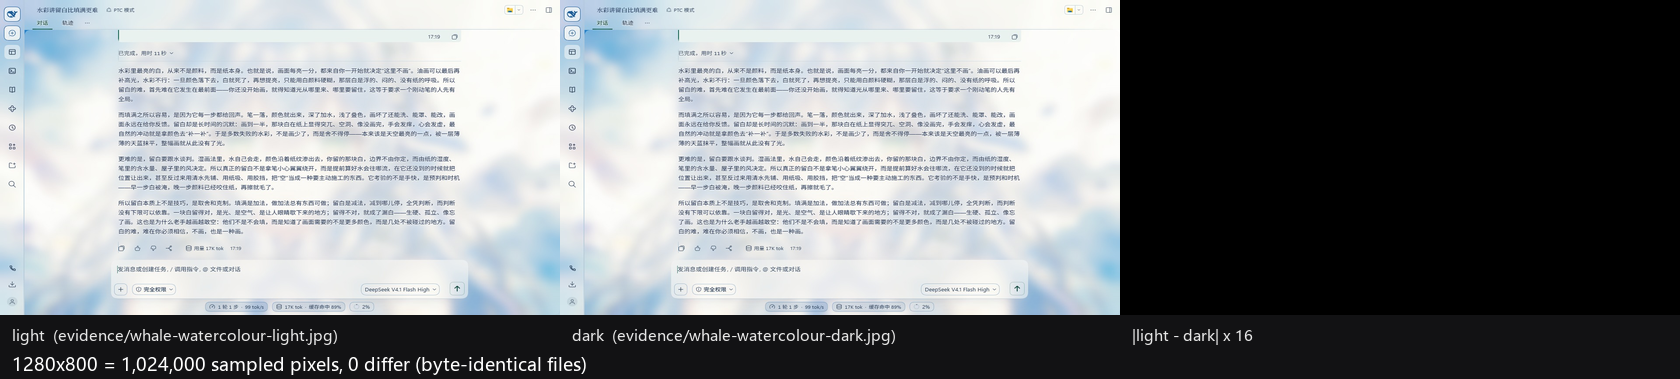
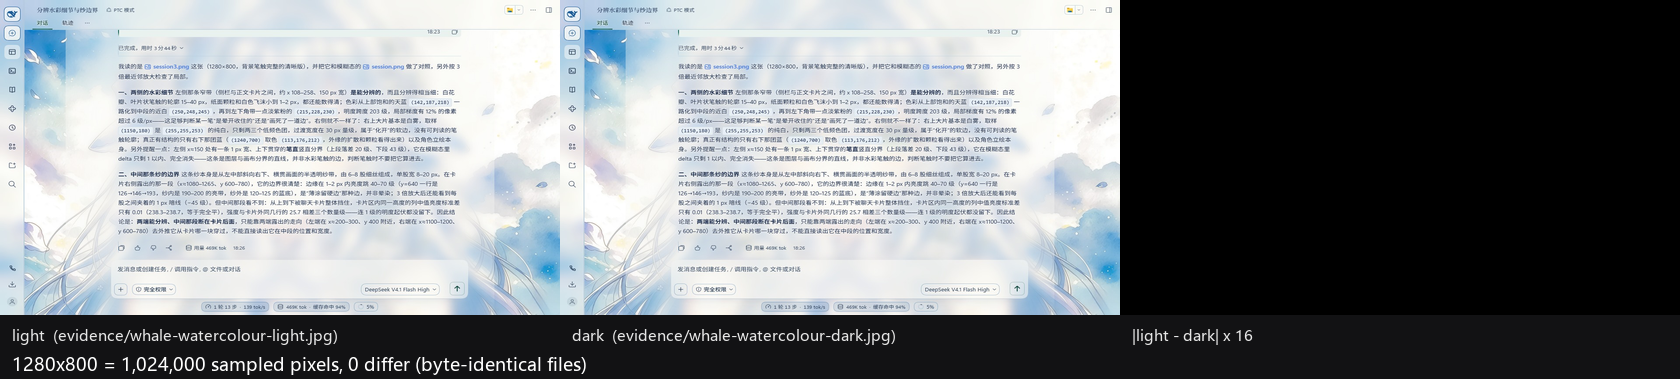
fix(skins): keep whale-watercolour's session sheet inside the 980 px band
The 2026-11-07 intake note read the session capture as blue-white fog in the
two picture columns (left x56-250, right x1070-1280) with no scrim boundary
visible, while the home capture of the same skin and viewport kept the hair,
petals and cloud edges there.

The cause was the skin's own conversation sheet, not the host blur slider:
[data-conversation-content] painted its veil across the full column width and
its ::before carried a full-width backdrop-filter blur(10px). Both are now the
same 980 px centred band as the scrim, with the same 10 % ramp, so the picture
columns keep the illustration's own detail and the sheet edge reads as the
scrim edge.

Measured on the running shell at 1280x800, DPR 1, high-pass per pixel over the
region: picture column left 0-150 px 6.59 -> 12.04 (home frame 10.77), right
1140-1280 px 0.81 -> 5.10 (home frame 4.80).

Evidence re-shot on the same viewport with the pet plugin disabled and the
host background blur at zero; preview/light.jpg, preview/dark.jpg and
evidence/whale-watercolour-home.jpg are byte-identical (F586C5C2...EDF705),
the two session captures are byte-identical to each other, and the parity
panel is regenerated (0 of 1,024,000 pixels differ).

diff --git a/skins/whale-watercolour/patches.css b/skins/whale-watercolour/patches.css
@@ -617,7 +617,12 @@ body [data-conversation-content]:not([data-content-phase='hero']) {
     color-mix(in srgb, var(--bk-veil-sheet) 0%, transparent) 100%);
   background-attachment: fixed;
   background-repeat: no-repeat;
-  background-size: 100% 100%;
+  /* The sheet is the same 980 px band as the scrim: the picture-only columns
+     left and right of the interface keep their own detail, and the sheet's
+     edge reads as the scrim's edge (2026-11-07 intake note: a full-width sheet
+     turned those two columns into blue-white fog and hid the scrim boundary). */
+  background-size: min(100%, 980px) 100%;
+  background-position: center top;
 }
 
 /* 3b · 毛玻璃：挂在一个**空伪元素**上，不挂本体 ──────────────────────────────
@@ -645,11 +650,19 @@ body [data-conversation-content]:not([data-content-phase='hero']) {
 body [data-conversation-content]:not([data-content-phase='hero'])::before {
   content: '';
   position: absolute;
-  inset: 0;
+  top: 0;
+  bottom: 0;
+  left: 50%;
+  width: min(100%, 980px);
+  transform: translateX(-50%);
   z-index: -1;
   pointer-events: none;
   backdrop-filter: blur(10px) saturate(1.05);
   -webkit-backdrop-filter: blur(10px) saturate(1.05);
+  /* The frost is the same band as the sheet, so the frosting never reaches the
+     picture-only columns either; the ramp keeps its edge from cutting a line. */
+  -webkit-mask-image: linear-gradient(90deg, transparent 0%, #000 10%, #000 90%, transparent 100%);
+  mask-image: linear-gradient(90deg, transparent 0%, #000 10%, #000 90%, transparent 100%);
 }
 
 /* ── 4 · 全局交互色 ──────────────────────────────────────────────────────── */

diff --git a/skins/whale-watercolour/README.zh.md b/skins/whale-watercolour/README.zh.md
@@ -82,6 +82,11 @@
 | 画面列，左 0-150 像素 | 9.53 | 9.56 | 7.74 |
 | 画面列，右 1140-1280 像素 | 4.88 | 4.94 | 3.96 |
 
+会话纸和它那层毛玻璃也收在同一条带子里（2026-11-07 的接收记录：整宽的会话纸加上整宽的
+`backdrop-filter`，把两侧画面列糊成蓝白雾，纱的边界也读不出来）。同一帧、同一视口按每像素高通量：
+画面列左 0-150 像素 `6.59 → 12.04`（首页同区域 `10.77`），右 1140-1280 像素 `0.81 → 5.10`
+（首页同区域 `4.80`）。
+
 界面那部分落在评审已经接受过的软化量上；两侧画面列回到「没有纱」的基线，
 不再丢掉两成细节，而且纱的边界在画面里看得出来了。
 
@@ -117,7 +122,7 @@
 | `color-scheme: dark`（会让所有没有作者色的原生控件变白字） | 1 条 | `body:not(:root)[data-ds-dark-theme] { color-scheme: light }` |
 
 本皮是**浅色专用**，所以商店的暗色档位会显示两张**逐字节相同**的预览图（`preview/light.jpg`
-与 `preview/dark.jpg` 的 sha256 相同，`9ED3843B…12999D`），暗色用户切过来得到的也是同一套
+与 `preview/dark.jpg` 的 sha256 相同，`F586C5C2…EDF705`），暗色用户切过来得到的也是同一套
 浅色界面 —— 这是刻意为之，不是漏了暗色素材。
 
 ## 证据

diff --git a/skins/whale-watercolour/README.md b/skins/whale-watercolour/README.md
@@ -92,6 +92,12 @@ layout, same frame:
 | picture column, left 0-150 px | 9.53 | 9.56 | 7.74 |
 | picture column, right 1140-1280 px | 4.88 | 4.94 | 3.96 |
 
+The conversation sheet and its frost sit on that same band (2026-11-07 intake note: a
+full-width sheet and a full-width `backdrop-filter` turned the two picture columns into
+blue-white fog and hid the scrim boundary). Measured on the same frame, same viewport,
+high-pass per pixel: picture column left 0-150 px `6.59 -> 12.04` (home frame `10.77`),
+right 1140-1280 px `0.81 -> 5.10` (home frame `4.80`).
+
 The interface lands at the same softening the review accepted, while the picture columns
 sit on the no-scrim baseline instead of losing a fifth of their detail, and the scrim's
 own edge is now visible in the frame.
@@ -134,7 +140,7 @@ set of values under `body[data-ds-dark-theme]`:
 
 Because the skin is light-only, a store's dark tier shows two preview images that
 are **the same bytes** — `preview/light.jpg` and `preview/dark.jpg` share a sha256
-(`9ED3843B…12999D`) — and a dark-mode user who switches to it gets the same light
+(`F586C5C2…EDF705`) — and a dark-mode user who switches to it gets the same light
 interface. That is the intent, not a missing file.
 
 ## Evidence
